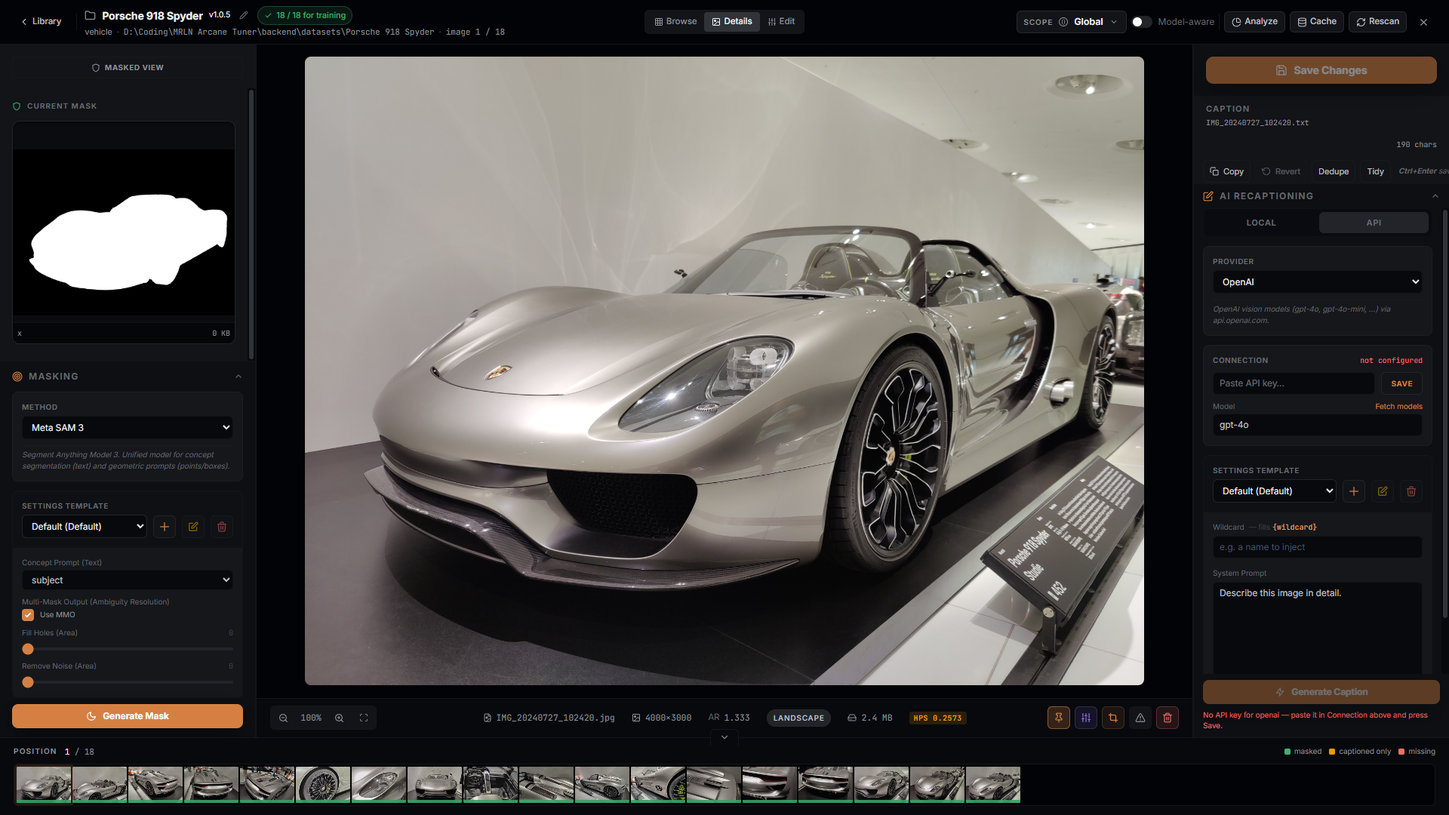
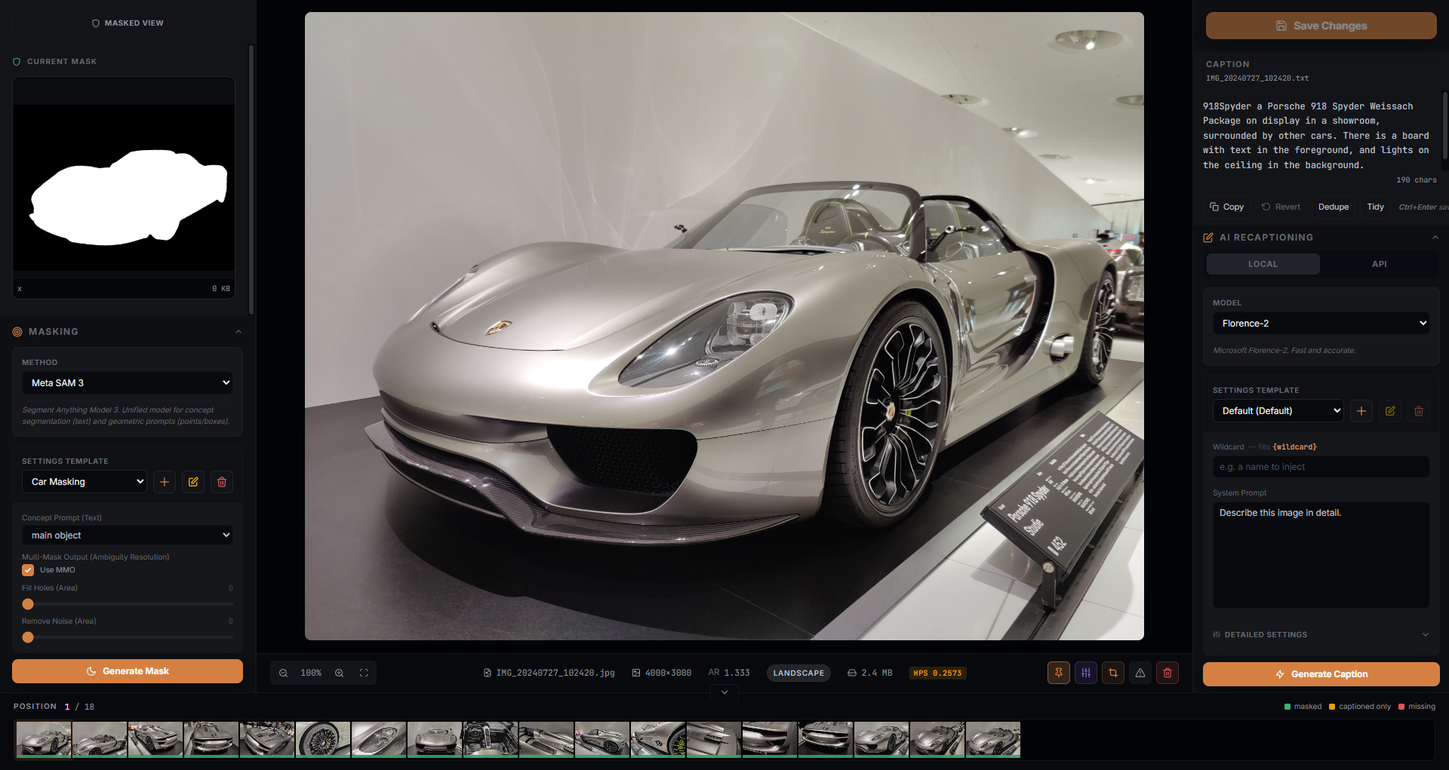
LANE-55: fold round-1 adversarial review (5 BLOCK, 10 MAJOR, 10 MINOR, 3 HYPOTHESIS)
Every BLOCK/MAJOR/MINOR fixed at the source; all three HYPOTHESIS items
verified in code/app and resolved. Highlights:
- server Clear truncates the log file on disk (not a fresh view)
- projects-guide: no card-menu delete, only header/edit-dialog
- README: drop invented xterm terminal, fix Harmonization wording (renames,
  never touches pixels), fix Image Manipulation count (12, not 10), add the
  missing datasets-guide link and a full guide index
- datasets-guide: four smart filter chips (Missing), Remove-from-project
  wording in project scope, Harmonize slugified stem, masked captions live
  in masked/stem.txt (not masked_captions/), Mass caption neural
  architecture opens on Local for a fresh project but remembers the
  project last choice, Details caption pane documented as its own surface
  (AI Recaptioning panel), outputs/lora_definition-id/ (not family),
  Crop-all anchor dropdown display bug documented (opens on top-left even
  though the applied default is center)
- training-guide: 28/51 visible vs 29/54 shipped (availability gate, not
  capabilities); TOC only lists groups the current model actually
  declares (Template Selection is a fixed card, not a TOC entry); launch
  bar lives above the form and pins to the viewport bottom on scroll
- templates-guide: presets are Global rows branched per project, not
  pre-seeded per project; added Refresh button and Export all live count
- jobs-guide: five Activity KPI tiles (added GPU time); model_part defined
[…]

diff --git a/docs/datasets-guide.md b/docs/datasets-guide.md
@@ -36,7 +36,8 @@ that guard anything permanent.
 ![Dataset Library — KPI rail, search/filter bar and the dataset grid](images/datasets-library-overview.png)
 
 Opens at `/datasets` (the app's default route). The header shows **Dataset
-Library**, the dataset count and image count for the active scope, **Rescan**
+Library** in Global scope, or **Project — Datasets** inside a project scope,
+plus the dataset count and image count for the active scope, **Rescan**
 / **Import Dataset** / **New Dataset** buttons and, when the library needs it,
 a **Repair cache** banner (see "Thumbnail cache repair" below). There is no
 density control here — density only applies to the Workspace Browse grid
@@ -66,11 +67,13 @@ search + filters all narrow this, so the tiles change as you filter):
 The search box matches name, category, description, trigger word, notes and
 tags — whatever you type is checked against all of those, not just the name.
 
-Three smart filter chips appear only when they would match something in the
+Four smart filter chips appear only when they would match something in the
 current scope: **Needs captioning** (at least one uncaptioned image),
 **Needs masking** (at least one unmasked image), **Low HPS** (median score
-below 0.27). The **+ Filter** picker adds category or tag chips on top of
-those. Sort is Name / Created / Images / HPS, ascending or descending.
+below 0.27), and **Missing** (the dataset's folder or files are gone from
+disk — cards in this state also carry a `MISSING` badge). The **+ Filter**
+picker adds category or tag chips on top of those. Sort is Name / Created /
+Images / HPS, ascending or descending.
 
 ### Per-dataset card
 
@@ -104,7 +107,8 @@ Selecting one or more cards (the checkbox in the top-left corner) replaces
 the per-card actions with a bulk bar: **Select all**, **Clear**, **Add to
 project**, **Rescan** (each selected dataset gets an incremental/"safe"
 rescan — bulk always uses the safe mode; a full rescan is a per-dataset
-action only), and **Delete**.
+action only), and **Delete** in Global scope (**Remove from project** inside
+a project scope).
 
 ### Delete — global scope vs. project scope
 
@@ -180,7 +184,7 @@ A segmented control switches the workspace body between three modes:
   caption/mask editing and per-image trim controls. See
   [Details — one image, closely](#details--one-image-closely) below.
 - **Edit** — the per-image, non-destructive adjustment pipeline (loaded
-  lazily): ten stacked operations from white balance to AI upscaling, plus
+  lazily): twelve stacked operations from white balance to AI upscaling, plus
   the separate, destructive crop editor. See
   [Edit — non-destructive adjustments](#edit--non-destructive-adjustments)
   below. Nothing in the pipeline is written until you Save, Bake in, or run
@@ -242,9 +246,13 @@ editor (switches to Edit mode on this image), open Crop, exclude from
 training, or delete the entry outright. Excluding is reversible from the
 Browse toolbar's "Enable all"; delete is not.
 
-**The caption pane** is the same inline caption editor as the Browse grid's
-tile, just with more room — useful when a caption needs real edits rather
-than a quick generate-and-move-on.
+**The caption pane** is a fuller surface than the Browse grid's inline
+editor, not the same one just resized: a Save Changes button, Copy / Revert
+/ Dedupe / Tidy actions, a character count, and a collapsible **AI
+Recaptioning** panel (Local/API model choice, settings template, wildcard,
+system prompt, a **Generate Caption** button) that captions this one image
+without opening Mass caption — useful when a caption needs real edits, or a
+one-off AI regenerate, rather than a quick generate-and-move-on.
 
 **Judging whether an image is worth keeping** is what this mode is for: with
 the mask, the full-size image and the caption all in view at once, you can
@@ -273,7 +281,9 @@ that the mask itself (not a composite) is what you expect.
 ### Similar images
 
 Reachable from the Analyze modal's Files tab, per-row "view near-duplicates"
-action (see [Analyze](#analyze) below) — opens a cluster of the original
+action, or from the Distributions tab's duplicate clusters ("View this
+cluster" / "Review all") (see [Analyze](#analyze) below) — opens a cluster of
+the original
 image plus every near-duplicate the similarity search found, each tagged
 with its similarity percentage and a higher-res / lower-res / same-res badge
 against the original. **Delete** on a card is permanent: the image, its
@@ -290,14 +300,14 @@ shortcut, and the workspace becomes a 3-pane editor: operation tabs on the
 left, the live-rendered canvas in the center, a histogram and the pipeline
 order on the right.
 
-The left panel groups ten operations under two headers:
+The left panel groups twelve operations under two headers:
 
 - **Adjust** (real-time, reversible) — White Balance, Curves, Color & Tone,
-  HSL, Sharpen, Vignette, Lens, CUBE LUT, Color Match.
+  HSL, Sharpen, Vignette, Lens, CUBE LUT, Color Match — nine operations.
 - **AI Models** (async, may change output) — Denoise, Face Restore, Upscale:
   each runs a model rather than a formula, so a result can vary run to run.
 
-Every one of those ten writes into a single non-destructive **overlay
+Every one of those twelve writes into a single non-destructive **overlay
 recipe** — nothing on disk changes until you explicitly commit it. The right
 panel's **Pipeline order** list shows every operation, in the order it
 renders, each with a checkbox (on/off) and a drag handle to reorder it; Color
@@ -419,7 +429,8 @@ Kohya-bucket vs. multi-resolution mode) drive which crop targets the
 preview, flags, with its own filter chips (All / Low HPS / Uncaptioned /
 Masked / Needs Crop / Duplicates), search-by-filename and sort. Per-row
 actions: view near-duplicates, open the per-image adjust editor, open detail,
-delete, or open the crop-preview modal for that one image.
+delete, open the crop-preview modal for that one image, or toggle it excluded
+from training (the same exclude flag Details' footer sets).
 
 ![Analyze modal — Files tab](images/analyze-modal-files.png)
 
@@ -428,14 +439,19 @@ both queued as a background task you can watch progress on:
 
 - **Harmonize files** — converts every image to JPG and renames the whole
   dataset (plus captions, masks, masked copies and control images) to a
-  canonical `<dataset>_00001.jpg` sequence. **It does not resize or crop
+  canonical `<slugified-dataset-name>_00001.jpg` sequence (e.g. "Porsche 918
+  Spyder" → `porsche_918_spyder_00001.jpg`). **It does not resize or crop
   pixels** — that is what Crop all is for. Audio pairs are left untouched.
 
   ![Harmonize confirm dialog](images/harmonize-confirm.png)
 
 - **Crop all** — crops every image the analysis pass flagged as needing it to
-  its target resolution, from a chosen anchor (default: center). This is the
-  one action that resizes pixels; Harmonize deliberately does not.
+  its target resolution, from a chosen anchor. The underlying default is
+  center, but the anchor dropdown itself opens showing **top-left** — a
+  display bug (the select renders before its options on first paint), not
+  what actually gets used unless you touch the dropdown. Pick the anchor
+  explicitly rather than trusting what's shown. This is the one action that
+  resizes pixels; Harmonize deliberately does not.
 
 Both dialogs say, in the same sentence, that the action **rewrites files on
 disk and cannot be undone** — read the message before confirming, since this
@@ -515,8 +531,11 @@ lands in the general `<stem>.txt`; with a structured-caption definition
 active, it writes the per-definition variant (`captions/<definition_id>/`)
 instead, so switching models never touches another model's captions.
 
-**Neural architecture** — the engine that does the captioning — defaults to
-**Local**: a model that runs on your own GPU, chosen from Youtu-VL,
+**Neural architecture** — the engine that does the captioning — opens on
+**Local** for a fresh project; after that, the tab and model you last used
+*in this project* are remembered and win (the preference is saved per
+project, so a project that last captioned via an API provider reopens on
+API). Local is a model that runs on your own GPU, chosen from Youtu-VL,
 Florence-2, Qwen3 VL (with an instruct/thinking size picker, 4B–32B) or
 JoyCaption, each with its own parameter schema (temperature, top-p, max
 tokens, task/caption type, and — JoyCaption only — two dozen fine-grained
@@ -551,9 +570,9 @@ unreviewed suggestion already — vs. Re-refine all) and **Output** (stage each
 result as a suggestion to accept/reject, or Auto-accept straight to the
 variant) come first; **Refinement model** picks the target definition (which
 caption vocabulary to refine), the installed Ollama model (with **Pull**
-buttons for curated tags not yet installed), a style override (Auto matches
-the definition's family — tags for CLIP/SDXL, natural language otherwise) and
-the operation preset (`standardize` or `synonym_merge`).
+buttons for curated tags not yet installed), a **Refinement template**
+(Auto matches the definition's family — tags for CLIP/SDXL, natural language
+otherwise) and the operation preset (`standardize` or `synonym_merge`).
 
 Refine needs a live endpoint with the chosen model installed on it — Start
 stays disabled until a target definition and a model are picked, and if the
@@ -589,14 +608,14 @@ Opened via the workspace's **Mass mask** button. Three tabs: **Generate**
 noise-removal area thresholds; or RemBG — model variant from a fixed list,
 post-process smoothing, optional alpha matting with foreground/background
 thresholds), **Apply** (apply an already-generated mask set), and **Caption**
-(caption the *masked* images specifically — writes to a separate
-`masked_captions/` target so it never overwrites the original captions).
+(caption the *masked* images specifically — writes to `masked/<stem>.txt`,
+alongside the mask files, so it never overwrites the original captions).
 
 ### Mass edit
 
 Opened via the workspace's **Mass edit** button. Lets you pick one image
-whose non-destructive adjustment recipe — any combination of Edit mode's ten
-operations, whichever are enabled on that image — you want to clone, then
+whose non-destructive adjustment recipe — any combination of Edit mode's
+twelve operations, whichever are enabled on that image — you want to clone, then
 apply that exact recipe to many target images in one batch. This is how a
 color grade, a denoise pass or an upscale you tuned on one photo gets applied
 consistently across a dataset without re-tuning it per image. Only images
@@ -642,10 +661,11 @@ exclude) has to be finished before the run starts, not after.
 
 ### Where a finished LoRA lands
 
-A training run writes its checkpoints to
-`outputs/<lora name>_<model family>/`, named from the job's own LoRA name
-and the model family it trained against — not the dataset's name, since one
-dataset can feed runs against several families. The Jobs screen is where you
+A training run writes its checkpoints to `outputs/<lora name>_<definition
+id>/`, named from the job's own LoRA name and the model **definition** it
+trained against (e.g. `mylora_krea2-raw`) — one folder per definition, not
+per family, and not the dataset's name, since one dataset can feed runs
+against several definitions. The Jobs screen is where you
 get the file back out: each checkpoint row carries a **Download LoRA
 .safetensors** action, so you don't need to go find the output folder on
 disk to use what you trained.
@@ -681,7 +701,8 @@ regenerate; it never drops captions or masks.
 Each dataset is a folder under the app's `datasets/` directory, named after
 its sanitized dataset name. Captions live beside their images as `.txt`
 files (or under a `captions/<definition>/` folder when a caption is tied to a
-specific model-family variant rather than the general one). Masks, masked
-captions, control images (for Edit-kind datasets) and the training cache each
-have their own subfolder inside the dataset directory — nothing here reaches
-outside the dataset's own folder.
+specific model-family variant rather than the general one). Masks and their
+matching masked-variant captions share one `masked/` subfolder
+(`masked/<stem>.png` and `masked/<stem>.txt`); control images (for Edit-kind
+datasets) and the training cache each have their own subfolder inside the
+dataset directory — nothing here reaches outside the dataset's own folder.

diff --git a/README.md b/README.md
@@ -359,7 +359,7 @@ For the full component and API route inventory, see [`docs/ARCHITECTURE.md`](doc
 
 ### 🎯 Dataset Management — The Heart of the Tool
 
-The dataset pipeline is designed to get your images from raw collection to training-ready with maximum control.
+The dataset pipeline is designed to get your images from raw collection to training-ready with maximum control. See [`docs/datasets-guide.md`](docs/datasets-guide.md) for the full storyline: Library, Browse, Details, Analyze, and the mass caption/mask/edit modals.
 
 #### Multi-Dataset Scanning
 Automatic directory scanning with image–caption pairing. Supports `.png`, `.jpg`, `.webp` images with paired `.txt` caption files. Incremental and full rescan modes.
@@ -368,7 +368,7 @@ Automatic directory scanning with image–caption pairing. Supports `.png`, `.jp
 The library card and workspace details footer both need one representative image, and by default that's just whatever the scanner enumerates first. A pin control (left of *Adjust image* in a grid tile's top-right cluster, left of *Adjust* in the details footer) lets you choose it instead — it's a toggle, so unpinning re-elects the automatic choice immediately. The pin is persisted (`datasets.preview_pinned`, `PUT /datasets/{name}/preview`) and **survives a rescan** — every scan used to overwrite the cover with the next enumerated file, which is what made pinning worth having in the first place. If the pinned file is later deleted, the next scan clears the pin and falls back rather than showing a hole. Library and workspace-grid covers are served from a sized thumbnail rendition, not the full training source.
 
 #### Image Manipulation
-A non-destructive adjustment pipeline, ten operations deep, that renders into
+A non-destructive adjustment pipeline, twelve operations deep, that renders into
 a saved overlay rather than touching the source file until you explicitly
 Save, Bake in, or apply it to other images ("Mass edit"):
 
@@ -401,7 +401,8 @@ Resolution-aware aspect-ratio bucketing with visual crop preview. Images are aut
 - **Multi**: Each image appears in every qualifying bucket for maximum latent diversity
 
 #### Dataset Analysis
-- **Harmonization analysis** — evaluate color and exposure consistency across the dataset
+- **Harmonize files** — canonical JPG conversion + `<slug>_00001` renaming, with
+  captions/masks/controls following along; pixels are untouched
 - **Duplicate detection** — perceptual hash similarity scoring to find near-duplicate images
 - **Per-image enable/disable** — toggle individual images in or out of training without deleting them
 
@@ -607,7 +608,6 @@ a finished LoRA, and the cross-run Training Statistics modal.
 - **Elapsed & started-at** — the job header reads `<elapsed> elapsed · started <time>`. Elapsed comes from the trainer, not wall-clock-minus-start: it's real run time (paused time excluded, and the offset from earlier sessions of a resumed run carried forward), so a pause doesn't inflate it and a backend restart doesn't lose it
 - **Sample images** — periodic generation previews at configurable intervals
 - **Structured logs** — real-time WebSocket streaming of JSON-formatted training events
-- **Live terminal** — xterm.js terminal for raw log output
 
 #### Job History
 SQLite-backed persistent tracking of all training runs:
@@ -661,6 +661,16 @@ card.
 ---
 
 ## Documentation
+
+Per-domain guides, each walking one screen end to end:
+
+- [**datasets-guide.md**](docs/datasets-guide.md) — Library, Browse, Details, Analyze, mass caption/mask/edit
+- [**projects-guide.md**](docs/projects-guide.md) — grouping datasets/templates/jobs, Quick Train, export/import
+- [**templates-guide.md**](docs/templates-guide.md) — the four template domains and the `/templates` screen
+- [**training-guide.md**](docs/training-guide.md) — model selection, the dynamic form, Adaptive Layer Targeting
+- [**jobs-guide.md**](docs/jobs-guide.md) — the queue, running-job detail, Training Statistics, job history
+- [**tools-guide.md**](docs/tools-guide.md) — Inspect and Resize
+- [**server-guide.md**](docs/server-guide.md) — health, restart/update, Connection/Models, Server Logs
 
 Detailed architecture documentation, including full API route inventory and component listing:
 

diff --git a/docs/training-guide.md b/docs/training-guide.md
@@ -35,13 +35,18 @@ to.
 
 ## The shape of the screen
 
-Three columns: a left **table of contents** that jumps to each section and
-tracks which one you're scrolled to; a center **form** built from the model
-definition's own schema — every model family declares the same base schema
-plus family-specific fields, so the form is identical in structure across
-families and only its options and defaults change; and a right **Estimate
-rail** with the live VRAM report. A sticky bar at the bottom of the form
-carries a compact echo of wall time and peak VRAM plus the **Start Training
+Three columns: a left **table of contents** that jumps to each schema-driven
+group and tracks which one you're scrolled to (Template Selection is a fixed
+card above the groups and is not itself a TOC entry; a group like Concepts
+& Triggerwords or Expert Features only appears in the TOC when the current
+model definition actually declares fields for it — a model with no concept
+fields, for instance, simply has no such entry); a center **form** built
+from the model definition's own schema — every model family declares the
+same base schema plus family-specific fields, so the form is identical in
+structure across families and only its options and defaults change; and a
+right **Estimate rail** with the live VRAM report. The launch bar sits above
+the form and stays pinned to the bottom edge of the viewport as you scroll,
+carrying a compact echo of wall time and peak VRAM plus the **Start Training
 Session** button — reachable without scrolling back up — and, if any section
 has an invalid field, a count with a jump-to-first-invalid shortcut.
 
@@ -67,11 +72,13 @@ as a `.template.zip` without leaving the form. See
 ### Model Selection
 
 Choose the **family** and, once a family is picked, the **definition** — the
-concrete checkpoint from that family's YAML (definitions unsupported by the
-family's current capabilities are hidden from the list). A family is an
-architecture with its own loader, driver, trainer, sampler and saver; a
-definition is one shipped checkpoint of it. The app ships **29 families, 54
-definitions** across image, video and audio. Also on this card: the
+concrete checkpoint from that family's YAML. A family is an architecture with
+its own loader, driver, trainer, sampler and saver; a definition is one
+shipped checkpoint of it. The app ships **29 families, 54 definitions**
+across image, video and audio, but the dropdown only enumerates the
+definitions that have cleared their availability gate — today that's **28
+families, 51 definitions**; the three gated ones (currently the MiniMax H3
+definitions) stay hidden until they clear. Also on this card: the
 **quantization backend** and **quantization** level for the base model, and
 the same pair for the text encoder — quantizing either trades some quality
 for VRAM, and the base-model quantization can also mean training

diff --git a/docs/jobs-guide.md b/docs/jobs-guide.md
@@ -34,12 +34,14 @@ ever trained.
 Three panes. A **Job Queue** on the left lists every job in three groups —
 Running, Pending, Archive (completed/failed/stopped) — with per-row controls
 that don't require opening the job. The **center pane** is the selected
-job's detail: header, live phase, KPI row, then collapsible cards for
-Training Curves, Sample Previews, Checkpoints, Run Config and Log. A
-**System Monitor** on the right shows live GPU/VRAM readouts, shared with
-the rest of the app.
+job's detail: header, live phase and KPI row for a running job (the KPI row
+only renders once live metrics exist — a completed job's header instead
+shows its terminal state and elapsed/started time with no KPI row), then
+collapsible cards for Training Curves, Sample Previews, Checkpoints, Run
+Config and Log. A **System Monitor** on the right shows live GPU/VRAM
+readouts, shared with the rest of the app.
 
-![Jobs screen — queue, running job detail with KPI row and Training Curves](images/jobs-screen-overview.png)
+![Jobs screen — queue and a completed job's detail (no KPI row for a finished run) with Training Curves and Sample Previews](images/jobs-screen-overview.png)
 
 ## The queue, left to right
 
@@ -185,8 +187,8 @@ Opened from the Archive header's chart icon. A cross-job view, global by
 default and narrowable to one project, with three tabs:
 
 - **Activity** — jobs per week as a stacked chart (completed / failed /
-  stopped), plus KPI tiles for total jobs, success rate, total steps and LoRAs
-  produced.
+  stopped), plus five KPI tiles: total jobs, success rate, total steps, GPU
+  time and LoRAs produced.
 - **Quality & Families** — a loss-distribution histogram, average
   loss/step-time/runtime, and a per-family table (jobs, success rate, average
   step time, best loss) that expands into a per-run table on click. A run row
@@ -239,5 +241,7 @@ targeting record are written by the trainer as the run goes and read back by
 `job_manager.py` and the jobs routes; the queue itself (running/pending
 ordering, auto-resume/auto-queue) is in-memory on the backend and rebuilt
 from the database on restart. A finished LoRA's `.safetensors` lands under
-`outputs/<lora_name>_<model_part>`, downloadable from the Checkpoints card
-on this screen.
+`outputs/<lora_name>_<model_part>` — `model_part` is the trained
+**definition id**, not the family (e.g. `krea2-raw`), so one folder exists
+per definition even when several definitions share a family — downloadable
+from the Checkpoints card on this screen.

diff --git a/docs/templates-guide.md b/docs/templates-guide.md
@@ -45,9 +45,10 @@ Every template belongs to exactly one domain, and belongs either to no project
   lets one project "know how to train two different models" for one client.
 - **Adaptive** — the Adaptive Layer Targeting knob dict (warm-up share, energy
   kept, floor, heat smoothing, measurement interval, freeze-vs-rebuild action).
-  Every project starts with the same three read-only factory presets
-  (**Conservative**, **Balanced**, **Aggressive**) that apply to any model —
-  editing one branches it into your own copy first.
+  There are three read-only factory presets (**Conservative**, **Balanced**,
+  **Aggressive**), seeded once as Global rows that apply to any model — a
+  project has none of its own until you branch one; editing a preset branches
+  it into your own copy first.
 
 Every template also carries a `readonly` flag (a factory default you cannot
 delete, only branch or copy from) and an `is_default` flag (the one applied
@@ -88,9 +89,11 @@ search across name, definition and model. Each row's actions:
 - **Delete** — disabled on read-only templates; everything else asks you to
   confirm first ("This cannot be undone").
 
-The header's **Export all** downloads every template that currently matches
-your filters as one bundle; **Import** opens the same import wizard the
-Datasets and Projects screens use.
+The header's **Refresh** button re-pulls the list (picks up templates or
+projects created elsewhere since the screen loaded); **Export all** — its
+label carries the live count, e.g. "Export all (42)" — downloads every
+template that currently matches your filters as one bundle; **Import** opens
+the same import wizard the Datasets and Projects screens use.
 
 ## Creating and editing templates where you use them
 

diff --git a/docs/projects-guide.md b/docs/projects-guide.md
@@ -166,8 +166,8 @@ guards), linked or missing dataset references, and a name-conflict choice
 (**Rename** or **Overwrite**) for the project itself and, separately, for any
 dataset name collision.
 
-**Delete project** — reachable from the Projects grid card menu, the project
-detail header, or the edit dialog — always opens the same confirm dialog,
+**Delete project** — reachable from the project detail header or the edit
+dialog's footer — always opens the same confirm dialog,
 and its wording is exact about what happens: *"Datasets and images are kept;
 project-specific settings are removed."* Deleting a project never touches
 dataset files; it removes the project record and its branched templates. If

diff --git a/docs/server-guide.md b/docs/server-guide.md
@@ -117,8 +117,9 @@ A live-tailed, filterable view of the backend's own structured log stream:
 - **Follow** — keep the view pinned to the newest line as more arrive.
 - **Wrap** — wrap long lines instead of horizontal-scrolling them.
 - **Download** — save everything currently loaded as a text file.
-- **Clear** — asks for confirmation, then clears the loaded entries (a fresh
-  view, not a destructive action on the log file itself).
+- **Clear** — asks for confirmation, then truncates the backend log file on
+  disk; the viewer empties because the file did. Download first if you want
+  to keep it.
 
 ## Recipes
 
